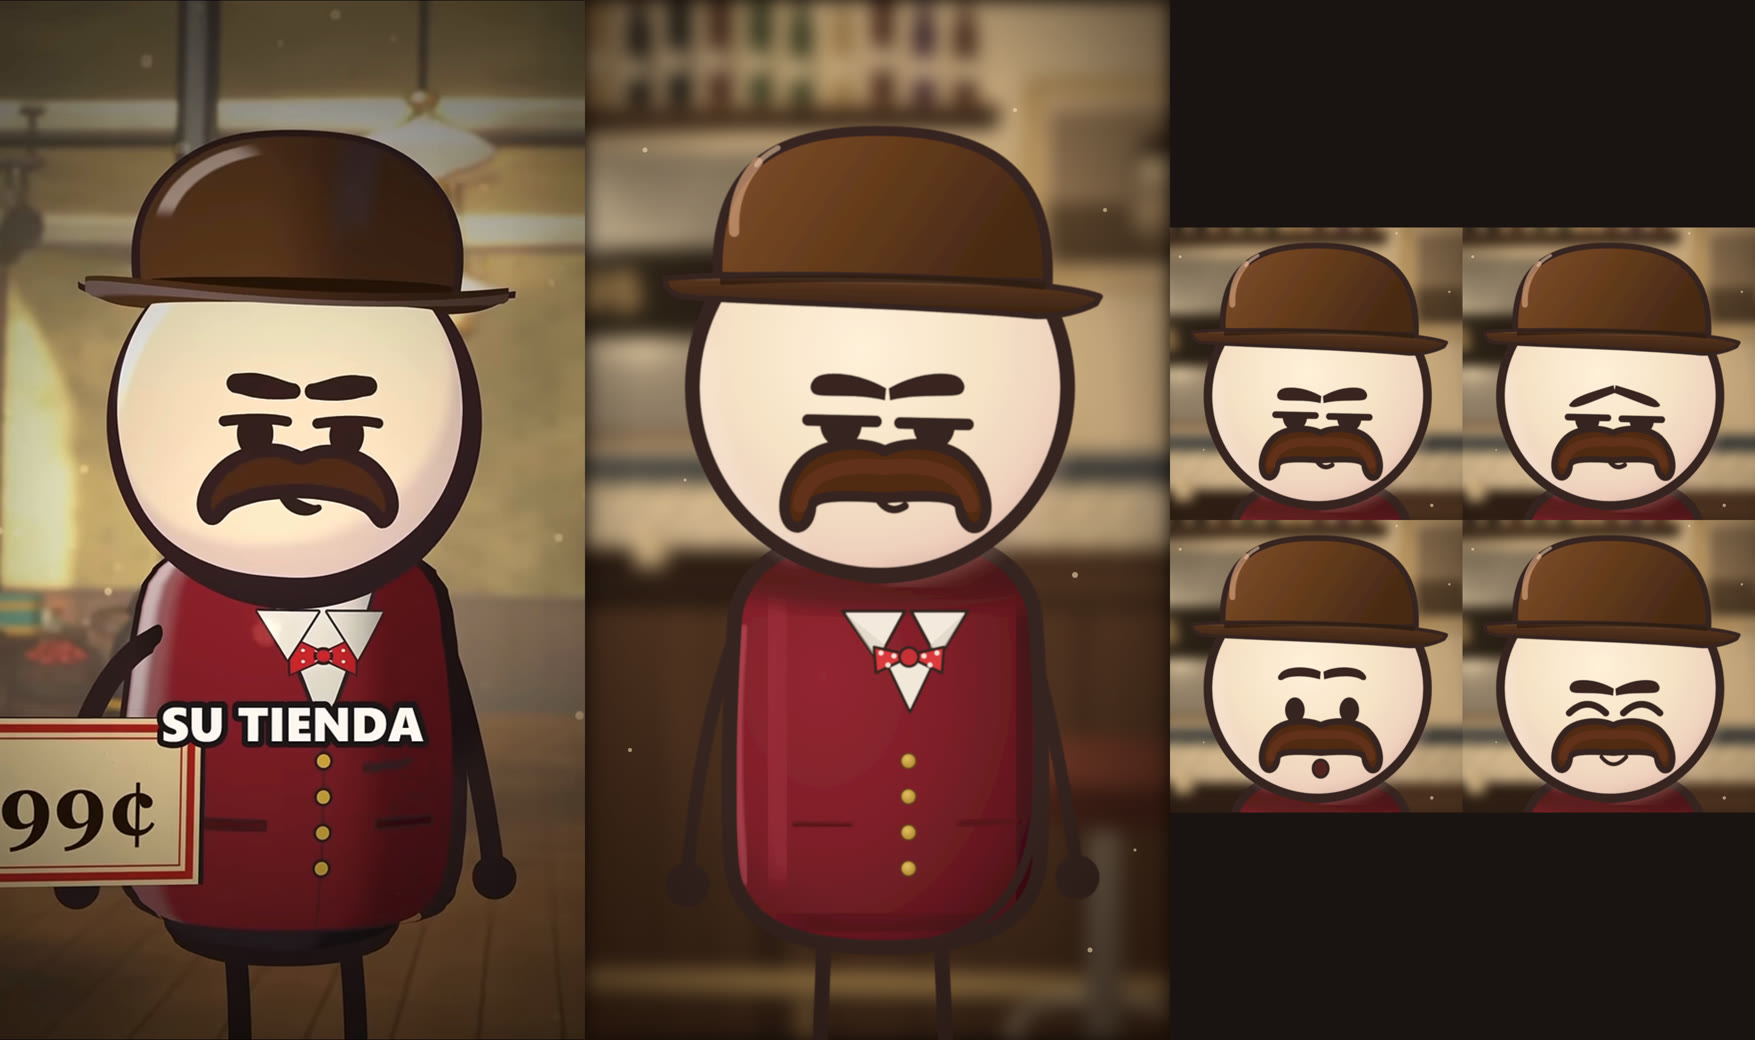
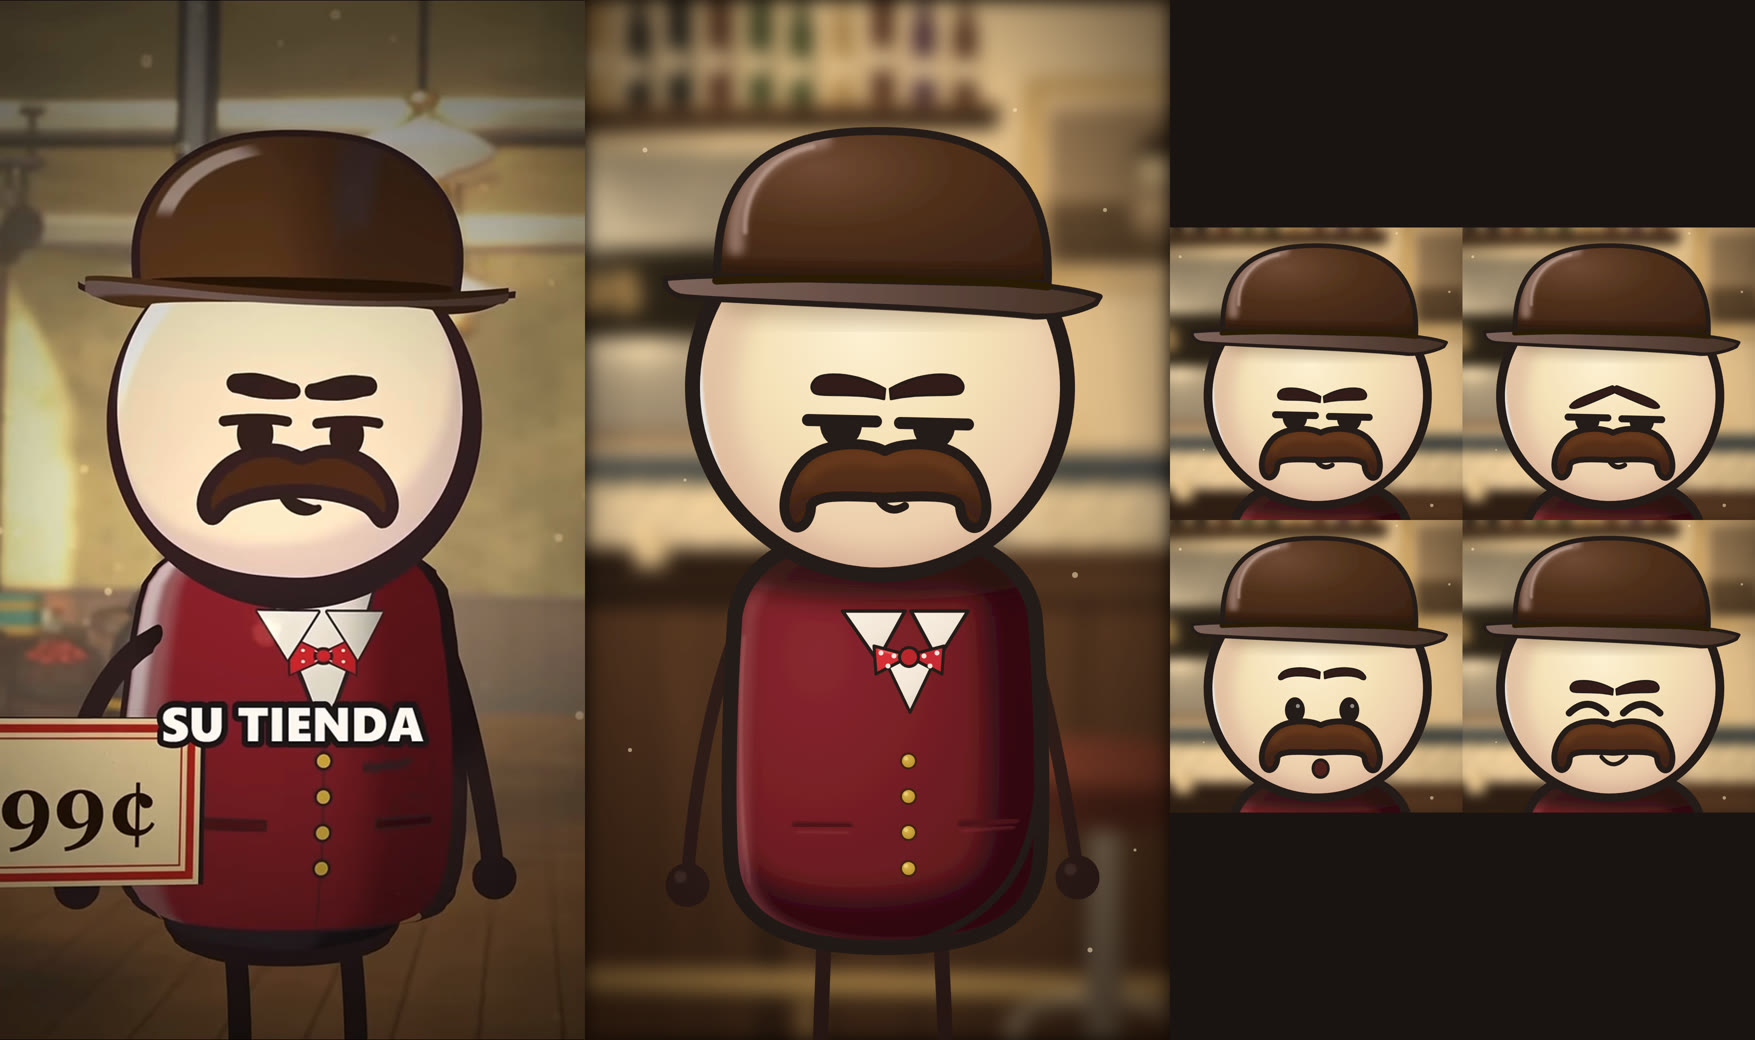
Boceto v6: sombras interiores, brillos, contornos y colores medidos
Claude-Session: https://claude.ai/code/session_01DBoMy54bVFDCmuWyX5MfGJ

diff --git a/archivoraro_archivo/proyectos/73_boceto_capsula/tendero2d.js b/archivoraro_archivo/proyectos/73_boceto_capsula/tendero2d.js
@@ -1,71 +1,95 @@
 // Tendero 2D calcado de la referencia «.99» (coordenadas del fotograma 1170x2080; cabeza centro 590,775 R 375).
+// Colores medidos en el vídeo: contorno #311b17, cabeza #f0e0bc→#f0cfbc, chaleco #904448/#761c24/#481116, bombín #937d71/#482a17/#372012, ala #68524f.
+const TD_BODY = 'M300,1230 C320,1110 450,1060 600,1060 C750,1060 880,1110 900,1230 C916,1440 916,1640 910,1720 C900,1840 800,1895 600,1895 C400,1895 300,1840 292,1720 C286,1640 286,1440 300,1230Z';
+const TD_CROWN = 'M265,560 C250,300 430,262 600,262 C780,262 930,320 925,560Z';
+const TD_BRIM = 'M160,566 C300,548 900,540 1030,584 L1022,598 C1000,610 950,628 900,626 C700,610 300,610 200,602 C175,600 158,586 160,566Z';
+const TD_MUST = 'M600,902 C560,880 470,882 432,928 C395,972 390,1030 412,1050 C432,1066 452,1040 452,1012 C460,990 520,990 600,996 C680,990 740,990 750,1012 C752,1040 770,1066 790,1052 C812,1032 806,972 768,928 C730,882 640,880 600,902Z';
 function tendero2d(o = {}) {
-  const K = '#2a1b1b', f = o.face || 'serio';
+  const K = '#1e1313', f = o.face || 'serio';
   let s = `<defs>
-  <radialGradient id="tdH" cx=".45" cy=".4" r=".62"><stop offset="0" stop-color="#fff6e2"/><stop offset=".55" stop-color="#f6e6cc"/><stop offset=".85" stop-color="#efd6c4"/><stop offset="1" stop-color="#e6c6bc"/></radialGradient>
-  <radialGradient id="tdB" cx=".3" cy=".35" r=".85"><stop offset="0" stop-color="#8e2030"/><stop offset=".45" stop-color="#781726"/><stop offset=".8" stop-color="#5a101c"/><stop offset="1" stop-color="#400a12"/></radialGradient>
-  <linearGradient id="tdHat" x1="0" y1="0" x2="1" y2=".3"><stop offset="0" stop-color="#7a4a28"/><stop offset=".5" stop-color="#5e3719"/><stop offset="1" stop-color="#3e2210"/></linearGradient>
-  <linearGradient id="tdBrim" x1="0" y1="0" x2="0" y2="1"><stop offset="0" stop-color="#8a7468"/><stop offset=".25" stop-color="#4a2c18"/><stop offset="1" stop-color="#2e1a0e"/></linearGradient>
-  <radialGradient id="tdBtn" cx=".4" cy=".35" r=".7"><stop offset="0" stop-color="#e2c060"/><stop offset="1" stop-color="#a8822a"/></radialGradient>
-  <filter id="tdSoft"><feGaussianBlur stdDeviation="18"/></filter><filter id="tdS1"><feGaussianBlur stdDeviation="2.5"/></filter><filter id="tdAll"><feGaussianBlur stdDeviation="1.1"/></filter>
-  <clipPath id="tdBc"><path d="M300,1230 C320,1110 450,1060 600,1060 C750,1060 880,1110 900,1230 C916,1440 916,1640 910,1720 C900,1840 800,1895 600,1895 C400,1895 300,1840 292,1720 C286,1640 286,1440 300,1230Z"/></clipPath>
+  <radialGradient id="tdH" cx=".46" cy=".36" r=".66"><stop offset="0" stop-color="#fdf4d8"/><stop offset=".45" stop-color="#f5e4bc"/><stop offset=".8" stop-color="#ecd0b0"/><stop offset="1" stop-color="#d8b49c"/></radialGradient>
+  <radialGradient id="tdB" cx=".28" cy=".3" r=".95"><stop offset="0" stop-color="#84222e"/><stop offset=".35" stop-color="#741a24"/><stop offset=".7" stop-color="#5e141e"/><stop offset="1" stop-color="#420e14"/></radialGradient>
+  <radialGradient id="tdHat" cx=".3" cy=".25" r=".9"><stop offset="0" stop-color="#6a4632"/><stop offset=".45" stop-color="#4a2c19"/><stop offset="1" stop-color="#341d10"/></radialGradient>
+  <linearGradient id="tdBrim" x1="0" y1="0" x2="1" y2="0"><stop offset="0" stop-color="#7a625c"/><stop offset=".5" stop-color="#5e4842"/><stop offset="1" stop-color="#3e2c24"/></linearGradient>
+  <linearGradient id="tdMu" x1="0" y1="0" x2="0" y2="1"><stop offset="0" stop-color="#5c3018"/><stop offset=".5" stop-color="#4a2814"/><stop offset="1" stop-color="#3a2014"/></linearGradient>
+  <linearGradient id="tdTri" x1="0" y1="0" x2="1" y2="1"><stop offset="0" stop-color="#fbf4e8"/><stop offset=".55" stop-color="#f2e9dc"/><stop offset="1" stop-color="#cfc6ba"/></linearGradient>
+  <radialGradient id="tdBtn" cx=".4" cy=".35" r=".7"><stop offset="0" stop-color="#dcb44a"/><stop offset="1" stop-color="#b08a2a"/></radialGradient>
+  <filter id="tdSoft" x="-30%" y="-30%" width="160%" height="160%"><feGaussianBlur stdDeviation="22"/></filter>
+  <filter id="tdS2" x="-30%" y="-30%" width="160%" height="160%"><feGaussianBlur stdDeviation="9"/></filter>
+  <filter id="tdS1"><feGaussianBlur stdDeviation="2.5"/></filter><filter id="tdAll"><feGaussianBlur stdDeviation=".5"/></filter>
+  <clipPath id="tdBc"><path d="${TD_BODY}"/></clipPath><clipPath id="tdHc"><circle cx="590" cy="775" r="375"/></clipPath>
+  <clipPath id="tdCc"><path d="${TD_CROWN}"/></clipPath><clipPath id="tdMc"><path d="${TD_MUST}"/></clipPath>
  </defs>`;
   // piernas
-  s += `<path d="M478,1880 L470,2100 M712,1880 L722,2100" stroke="${K}" stroke-width="30" stroke-linecap="round"/>`;
-  // brazos (de palo grueso) y manos bola
+  s += `<path d="M478,1880 L470,2100 M712,1880 L722,2100" stroke="#261717" stroke-width="30" stroke-linecap="round"/>`;
+  // brazos y manos bola
   const armL = o.armL || 'M305,1260 C250,1400 215,1600 205,1760', handL = o.handL || [205, 1770];
   const armR = o.armR || 'M888,1270 C930,1420 965,1600 985,1745', handR = o.handR || [985, 1755];
-  s += `<path d="${armL}" stroke="${K}" stroke-width="26" fill="none" stroke-linecap="round"/><circle cx="${handL[0]}" cy="${handL[1]}" r="44" fill="${K}"/>`;
-  s += `<path d="${armR}" stroke="${K}" stroke-width="26" fill="none" stroke-linecap="round"/><circle cx="${handR[0]}" cy="${handR[1]}" r="44" fill="${K}"/>`;
-  // cuerpo (bala granate)
-  const BP = 'M300,1230 C320,1110 450,1060 600,1060 C750,1060 880,1110 900,1230 C916,1440 916,1640 910,1720 C900,1840 800,1895 600,1895 C400,1895 300,1840 292,1720 C286,1640 286,1440 300,1230Z';
-  s += `<path d="${BP}" fill="url(#tdB)"/><g clip-path="url(#tdBc)">
-    <path d="M318,1250 C300,1420 302,1620 322,1770" stroke="#c85a6a" stroke-width="18" fill="none" opacity=".5" filter="url(#tdS1)"/><path d="M380,1200 C360,1400 370,1600 400,1760" stroke="#b03848" stroke-width="80" fill="none" opacity=".35" filter="url(#tdSoft)"/><path d="M420,1830 C500,1870 700,1870 800,1830" stroke="#2a060c" stroke-width="50" fill="none" opacity=".4" filter="url(#tdSoft)"/>
-    <ellipse cx="600" cy="1150" rx="330" ry="70" fill="#2a0a10" opacity=".55" filter="url(#tdSoft)"/>
-    <path d="M880,1220 C900,1450 895,1690 865,1830" stroke="#1e0408" stroke-width="80" fill="none" opacity=".5" filter="url(#tdSoft)"/>
-    <path d="M420,1650 L530,1652 M752,1648 L862,1640" stroke="#4a0a14" stroke-width="13" stroke-linecap="round" opacity=".85" filter="url(#tdS1)"/>
-  </g><path d="${BP}" fill="none" stroke="${K}" stroke-width="30" stroke-linejoin="round"/><path d="M905,1500 C912,1700 880,1880 600,1898" stroke="${K}" stroke-width="18" fill="none" stroke-linecap="round"/>`;
-  // camisa en pico bajo la pajarita, cuello (dos triángulos), pajarita roja de lunares
-  s += `<path d="M598,1316 L702,1316 L650,1425Z" fill="#f2ece2" stroke="${K}" stroke-width="6" stroke-linejoin="round"/>`;
-  s += `<path d="M515,1222 L640,1222 L585,1322Z" fill="#f4efe6" stroke="${K}" stroke-width="7" stroke-linejoin="round"/><path d="M520,1226 L585,1322 L600,1290Z" fill="#d9d2c6" opacity=".6"/>`;
-  s += `<path d="M652,1222 L766,1222 L705,1320Z" fill="#f4efe6" stroke="${K}" stroke-width="7" stroke-linejoin="round"/><path d="M760,1226 L705,1320 L690,1290Z" fill="#d9d2c6" opacity=".6"/>`;
-  s += `<path d="M578,1294 L632,1306 L632,1322 L582,1346Z" fill="#d8323a" stroke="${K}" stroke-width="6" stroke-linejoin="round"/><path d="M718,1294 L664,1306 L664,1322 L714,1346Z" fill="#d8323a" stroke="${K}" stroke-width="6" stroke-linejoin="round"/>`;
-  s += `<circle cx="648" cy="1314" r="19" fill="#c42a32" stroke="${K}" stroke-width="6"/>`;
-  s += [[592, 1306], [606, 1330], [618, 1312], [704, 1306], [690, 1330], [678, 1312]].map(([x, y]) => `<circle cx="${x}" cy="${y}" r="5" fill="#f6e8e0"/>`).join('');
-  // botones dorados
-  s += [1522, 1593, 1665, 1737].map(y => `<circle cx="647" cy="${y}" r="15" fill="url(#tdBtn)" stroke="#5a3a14" stroke-width="3"/>`).join('');
-  // cabeza
-  s += `<circle cx="590" cy="775" r="375" fill="url(#tdH)"/>
-   <path d="M245,700 C232,880 300,1040 430,1110" stroke="#ffffff" stroke-width="18" fill="none" opacity=".55" stroke-linecap="round" filter="url(#tdSoft)"/>
-   <path d="M600,1150 C760,1150 900,1060 950,900" stroke="#c9a89a" stroke-width="40" fill="none" opacity=".35" filter="url(#tdSoft)"/>
-   <circle cx="590" cy="775" r="375" fill="none" stroke="${K}" stroke-width="30"/><path d="M955,850 A375,375 0 0 1 560,1150" stroke="${K}" stroke-width="20" fill="none" transform="translate(4,6)" stroke-linecap="round"/>`;
+  const hand = ([x, y]) => `<circle cx="${x}" cy="${y}" r="44" fill="#261717"/><circle cx="${x - 14}" cy="${y - 16}" r="12" fill="#5a4440" opacity=".45" filter="url(#tdS1)"/>`;
+  s += `<path d="${armL}" stroke="#261717" stroke-width="26" fill="none" stroke-linecap="round"/>${hand(handL)}<path d="${armR}" stroke="#261717" stroke-width="26" fill="none" stroke-linecap="round"/>${hand(handR)}`;
+  // cuerpo: granate con luz por la izquierda, sombra a la derecha y bajo la cabeza
+  s += `<path d="${TD_BODY}" fill="url(#tdB)"/><g clip-path="url(#tdBc)">
+    <path d="M290,1300 C280,1480 285,1650 310,1780" stroke="#b05a60" stroke-width="40" fill="none" opacity=".55" filter="url(#tdS2)"/>
+    <path d="M318,1270 C306,1450 308,1640 330,1770" stroke="#d48a8a" stroke-width="8" fill="none" opacity=".5" filter="url(#tdS1)"/>
+    <path d="${TD_BODY}" fill="none" stroke="#1a0408" stroke-width="130" opacity=".75" filter="url(#tdSoft)" transform="translate(-45,-40)"/>
+    <path d="${TD_BODY}" fill="none" stroke="#c46a70" stroke-width="40" opacity=".35" filter="url(#tdS2)" transform="translate(22,10)"/>
+    <ellipse cx="600" cy="1110" rx="380" ry="90" fill="#1e0a0c" opacity=".8" filter="url(#tdSoft)"/>
+    <path d="M420,1650 L530,1652 M752,1648 L862,1640" stroke="#441116" stroke-width="13" stroke-linecap="round" filter="url(#tdS1)"/>
+    <path d="M424,1664 L528,1666 M754,1662 L858,1654" stroke="#9a3a44" stroke-width="4" stroke-linecap="round" opacity=".5" filter="url(#tdS1)"/>
+  </g><path d="${TD_BODY}" fill="none" stroke="${K}" stroke-width="30" stroke-linejoin="round"/>
+  <path d="M908,1420 C918,1650 900,1840 600,1900" stroke="${K}" stroke-width="16" fill="none" stroke-linecap="round"/>`;
+  // camisa en pico, cuello (dos triángulos con sombra diagonal), pajarita roja de lunares
+  s += `<path d="M598,1316 L702,1316 L650,1425Z" fill="url(#tdTri)" stroke="${K}" stroke-width="6" stroke-linejoin="round"/>`;
+  s += `<path d="M515,1222 L640,1222 L585,1322Z" fill="url(#tdTri)" stroke="${K}" stroke-width="7" stroke-linejoin="round"/>`;
+  s += `<path d="M652,1222 L766,1222 L705,1320Z" fill="url(#tdTri)" stroke="${K}" stroke-width="7" stroke-linejoin="round"/>`;
+  s += `<path d="M578,1292 L632,1306 L632,1322 L582,1348Z" fill="#d42c34" stroke="${K}" stroke-width="6" stroke-linejoin="round"/><path d="M718,1292 L664,1306 L664,1322 L714,1348Z" fill="#c42630" stroke="${K}" stroke-width="6" stroke-linejoin="round"/>`;
+  s += `<path d="M586,1300 L626,1310" stroke="#f07070" stroke-width="4" opacity=".6"/>`;
+  s += `<circle cx="648" cy="1314" r="19" fill="#b8222c" stroke="${K}" stroke-width="6"/>`;
+  s += [[592, 1306], [606, 1332], [618, 1312], [704, 1306], [690, 1332], [678, 1312]].map(([x, y]) => `<circle cx="${x}" cy="${y}" r="5" fill="#f6e8e0"/>`).join('');
+  // botones dorados con contorno oscuro
+  s += [1522, 1593, 1665, 1737].map(y => `<circle cx="647" cy="${y}" r="15" fill="url(#tdBtn)" stroke="#3a1a10" stroke-width="4"/><circle cx="642" cy="${y - 5}" r="4" fill="#f4dc8a" opacity=".7"/>`).join('');
+  // cabeza: crema con sombra cálida abajo/derecha y borde de luz frío a la izquierda
+  s += `<circle cx="590" cy="775" r="375" fill="url(#tdH)"/><g clip-path="url(#tdHc)">
+    <circle cx="560" cy="700" r="375" fill="none" stroke="#c89c8c" stroke-width="90" opacity=".35" filter="url(#tdSoft)" transform="translate(70,90)"/>
+    <path d="M232,640 C214,780 236,940 330,1060" stroke="#e8eef2" stroke-width="16" fill="none" opacity=".9" stroke-linecap="round" filter="url(#tdS1)"/>
+    <ellipse cx="590" cy="600" rx="330" ry="40" fill="#5a3a28" opacity=".35" filter="url(#tdSoft)"/>
+  </g><circle cx="590" cy="775" r="375" fill="none" stroke="${K}" stroke-width="30"/>
+  <path d="M950,860 A375,375 0 0 1 580,1150" stroke="${K}" stroke-width="16" fill="none" transform="translate(3,6)" stroke-linecap="round"/>`;
   s += face2d(f);
-  // bombín
+  // bombín: copa chocolate con brillo ancho arriba a la izquierda, sombra de la copa sobre el ala
   s += `<g transform="rotate(${o.hatTilt ?? 1.2},590,580)">
-   <path d="M265,560 C250,300 430,262 600,262 C780,262 930,320 925,560Z" fill="url(#tdHat)" stroke="${K}" stroke-width="20" stroke-linejoin="round"/>
-   <path d="M340,330 C305,370 292,420 296,470" stroke="#c89a78" stroke-width="20" fill="none" stroke-linecap="round" opacity=".75"/>
-   <path d="M380,300 C360,312 345,325 338,335" stroke="#e8c8a8" stroke-width="10" fill="none" stroke-linecap="round" opacity=".6"/>
-   <path d="M160,566 C300,548 900,540 1030,584 L1022,598 C1000,610 950,628 900,626 C700,610 300,610 200,602 C175,600 158,586 160,566Z" fill="url(#tdBrim)" stroke="${K}" stroke-width="12" stroke-linejoin="round"/>
-   <path d="M270,570 C450,556 760,552 920,566" stroke="#1e1008" stroke-width="14" fill="none" opacity=".7"/>
+   <path d="${TD_BRIM}" fill="url(#tdBrim)"/>
+   <path d="M170,600 C300,612 700,612 900,628 C960,626 1010,606 1022,598" stroke="#2a1a12" stroke-width="10" fill="none" opacity=".8"/>
+   <path d="${TD_BRIM}" fill="none" stroke="${K}" stroke-width="11" stroke-linejoin="round"/>
+   <path d="${TD_CROWN}" fill="url(#tdHat)"/><g clip-path="url(#tdCc)">
+     <path d="M300,500 C290,380 360,300 470,282" stroke="#a88a80" stroke-width="34" fill="none" opacity=".75" stroke-linecap="round" filter="url(#tdS2)"/>
+     <path d="M318,470 C312,380 370,312 450,296" stroke="#c8aca2" stroke-width="10" fill="none" opacity=".6" stroke-linecap="round" filter="url(#tdS1)"/>
+     <path d="M930,300 C960,420 940,520 900,600 L1000,600 L1000,280Z" fill="#1a0c06" opacity=".6" filter="url(#tdSoft)"/>
+     <rect x="250" y="530" width="700" height="40" fill="#1a0c06" opacity=".55" filter="url(#tdS2)"/>
+   </g><path d="${TD_CROWN}" fill="none" stroke="${K}" stroke-width="16" stroke-linejoin="round"/>
+   <path d="M262,568 C450,556 760,552 925,566" stroke="#241206" stroke-width="16" fill="none" stroke-linecap="round"/>
   </g>`;
   return s;
 }
 
 function face2d(f) {
-  const K = '#2a1b1b', BR = '#2e1d1a';
+  const K = '#1e1313', BR = '#2a1918';
   let s = '';
-  const browL = { serio: 'M458,762 C470,742 540,744 600,778 L598,798 C545,786 488,792 466,788 C452,786 450,772 458,762Z', preocupado: 'M458,800 C470,780 540,760 600,742 L604,764 C545,786 488,812 466,812 C450,812 448,808 458,800Z', sorpresa: 'M462,728 C480,700 560,700 598,720 L596,742 C545,728 490,730 470,744 C456,750 452,738 462,728Z' };
+  const browL = { serio: 'M458,762 C470,742 540,744 600,778 L598,798 C545,786 488,792 466,788 C452,786 450,772 458,762Z',
+    preocupado: 'M456,806 C470,786 530,766 596,742 C606,740 610,758 602,766 C545,790 490,816 468,818 C452,818 448,814 456,806Z',
+    sorpresa: 'M462,728 C480,700 560,700 598,720 L596,742 C545,728 490,730 470,744 C456,750 452,738 462,728Z' };
   const flip = d => d.replace(/(-?\d+(\.\d+)?),(-?\d+(\.\d+)?)/g, (m, x, _, y) => `${1210 - +x},${y}`);
-  const bl = browL[f] || browL.serio; s += `<path d="${bl}" fill="${BR}" stroke="${K}" stroke-width="5"/><path d="${flip(bl)}" fill="${BR}" stroke="${K}" stroke-width="5"/>`;
-  if (f === 'sorpresa') s += `<ellipse cx="512" cy="850" rx="34" ry="44" fill="${K}"/><ellipse cx="698" cy="850" rx="34" ry="44" fill="${K}"/>`;
+  const bl = browL[f] || browL.serio; s += `<path d="${bl}" fill="${BR}" stroke="${K}" stroke-width="5" stroke-linejoin="round"/><path d="${flip(bl)}" fill="${BR}" stroke="${K}" stroke-width="5" stroke-linejoin="round"/>`;
+  if (f === 'sorpresa') s += `<ellipse cx="512" cy="850" rx="34" ry="44" fill="${K}"/><ellipse cx="698" cy="850" rx="34" ry="44" fill="${K}"/><circle cx="522" cy="836" r="7" fill="#fff" opacity=".5"/><circle cx="708" cy="836" r="7" fill="#fff" opacity=".5"/>`;
   else if (f === 'feliz') s += `<path d="M450,860 Q512,800 575,860 M635,860 Q698,800 760,860" stroke="${K}" stroke-width="24" fill="none" stroke-linecap="round"/>`;
   else { const dy = f === 'preocupado' ? 8 : 0;
     s += `<path d="M470,${848 + dy} A40,44 0 0 0 554,${848 + dy}Z" fill="${K}"/><path d="M656,${852 + dy} A40,44 0 0 0 740,${852 + dy}Z" fill="${K}"/>`;
     s += `<path d="M446,${840 + dy} L582,${843 + dy} M630,${846 + dy} L766,${849 + dy}" stroke="${K}" stroke-width="24" stroke-linecap="round"/>`; }
-  // bigote: arco grueso con puntas caídas
-  const M = 'M600,902 C560,880 470,882 432,928 C395,972 390,1030 412,1050 C432,1066 452,1040 452,1012 C460,990 520,990 600,996 C680,990 740,990 750,1012 C752,1040 770,1066 790,1052 C812,1032 806,972 768,928 C730,882 640,880 600,902Z';
-  s += `<path d="${M}" fill="#47220f" stroke="${K}" stroke-width="22" stroke-linejoin="round"/>`;
-  s += `<path d="M430,1010 C440,950 500,925 600,935 C700,925 760,950 772,1010" stroke="#5c2e16" stroke-width="30" fill="none" opacity=".8" stroke-linecap="round"/>`;
+  // bigote: marrón oscuro, más claro arriba, contorno grueso
+  s += `<path d="${TD_MUST}" fill="url(#tdMu)"/><g clip-path="url(#tdMc)">
+    <path d="M440,960 C470,915 540,905 600,925 C660,905 730,915 760,960" stroke="#6e3c20" stroke-width="22" fill="none" opacity=".5" stroke-linecap="round" filter="url(#tdS2)"/>
+    <path d="M410,1040 C420,1000 450,990 600,1000 C750,990 780,1000 790,1040" stroke="#2e180e" stroke-width="22" fill="none" opacity=".5" filter="url(#tdS2)"/>
+  </g><path d="${TD_MUST}" fill="none" stroke="${K}" stroke-width="20" stroke-linejoin="round"/>`;
   // boca
   if (f === 'sorpresa') s += `<ellipse cx="600" cy="1050" rx="26" ry="30" fill="#4a1c1e" stroke="${K}" stroke-width="10"/>`;
   else if (f === 'feliz') s += `<path d="M560,1010 Q600,1060 645,1010" stroke="${K}" stroke-width="14" fill="none" stroke-linecap="round"/>`;

diff --git a/archivoraro_archivo/proyectos/73_boceto_capsula/t2.html b/archivoraro_archivo/proyectos/73_boceto_capsula/t2.html
@@ -1,6 +1,6 @@
 <!doctype html><html><head><meta charset="utf-8"><style>html,body{margin:0}#st{position:relative;width:1170px;height:2080px;overflow:hidden}img,svg{position:absolute;left:0;top:0}</style></head>
 <body><div id="st"><img id="bg" src="bg_0.png" width="1170" height="2080" style="object-fit:cover"><svg id="sv" width="1170" height="2080" viewBox="0 0 1170 2080"></svg></div>
 <script src="tendero2d.js"></script><script>
-const FX = `<defs><radialGradient id="vg" cx=".5" cy=".45" r=".75"><stop offset=".55" stop-color="#000" stop-opacity="0"/><stop offset="1" stop-color="#1a0c04" stop-opacity=".55"/></radialGradient></defs><rect width="1170" height="2080" fill="#ffb060" opacity=".06"/><rect width="1170" height="2080" fill="url(#vg)"/>` + [[120,300,5],[1040,420,4],[980,1150,6],[90,1500,4],[1100,1700,3],[200,960,3],[860,220,4],[1010,1900,5]].map(([x,y,r]) => `<circle cx="${x}" cy="${y}" r="${r}" fill="#ffe8c0" opacity=".55"/>`).join('');
+const FX = `<defs><radialGradient id="vg" cx=".5" cy=".45" r=".75"><stop offset=".55" stop-color="#000" stop-opacity="0"/><stop offset="1" stop-color="#1a0c04" stop-opacity=".55"/></radialGradient></defs><rect width="1170" height="2080" fill="#ffb060" opacity=".04"/><rect width="1170" height="2080" fill="url(#vg)"/>` + [[120,300,5],[1040,420,4],[980,1150,6],[90,1500,4],[1100,1700,3],[200,960,3],[860,220,4],[1010,1900,5]].map(([x,y,r]) => `<circle cx="${x}" cy="${y}" r="${r}" fill="#ffe8c0" opacity=".55"/>`).join('');
 window.shot = (f, ov) => { document.getElementById('bg').src = ov ? 'ref_clean.png' : 'bg_0.png'; document.getElementById('sv').innerHTML = `<g opacity="${ov ? .55 : 1}" filter="url(#tdAll)">${tendero2d({ face: f })}</g>` + (ov ? '' : FX); };
 document.title = 'ready';</script></body></html>

diff --git a/archivoraro_archivo/proyectos/73_boceto_capsula/bg.js b/archivoraro_archivo/proyectos/73_boceto_capsula/bg.js
@@ -1,2 +1,2 @@
-const W = W2; window.shot = function (n) { W.setTime(2); W.inkM.visible = false; document.getElementById('gl').style.filter = 'blur(18px) saturate(.6) sepia(.4) brightness(.9)';
+const W = W2; window.shot = function (n) { W.setTime(2); W.inkM.visible = false; document.getElementById('gl').style.filter = 'blur(18px) saturate(.7) sepia(.45) brightness(1.02)';
   W.setCam(V3(-1.12, 1.4, .1), V3(-1.2, 1.3, -1.9), 40, null, .003); W.render(); }; document.title = 'ready';
